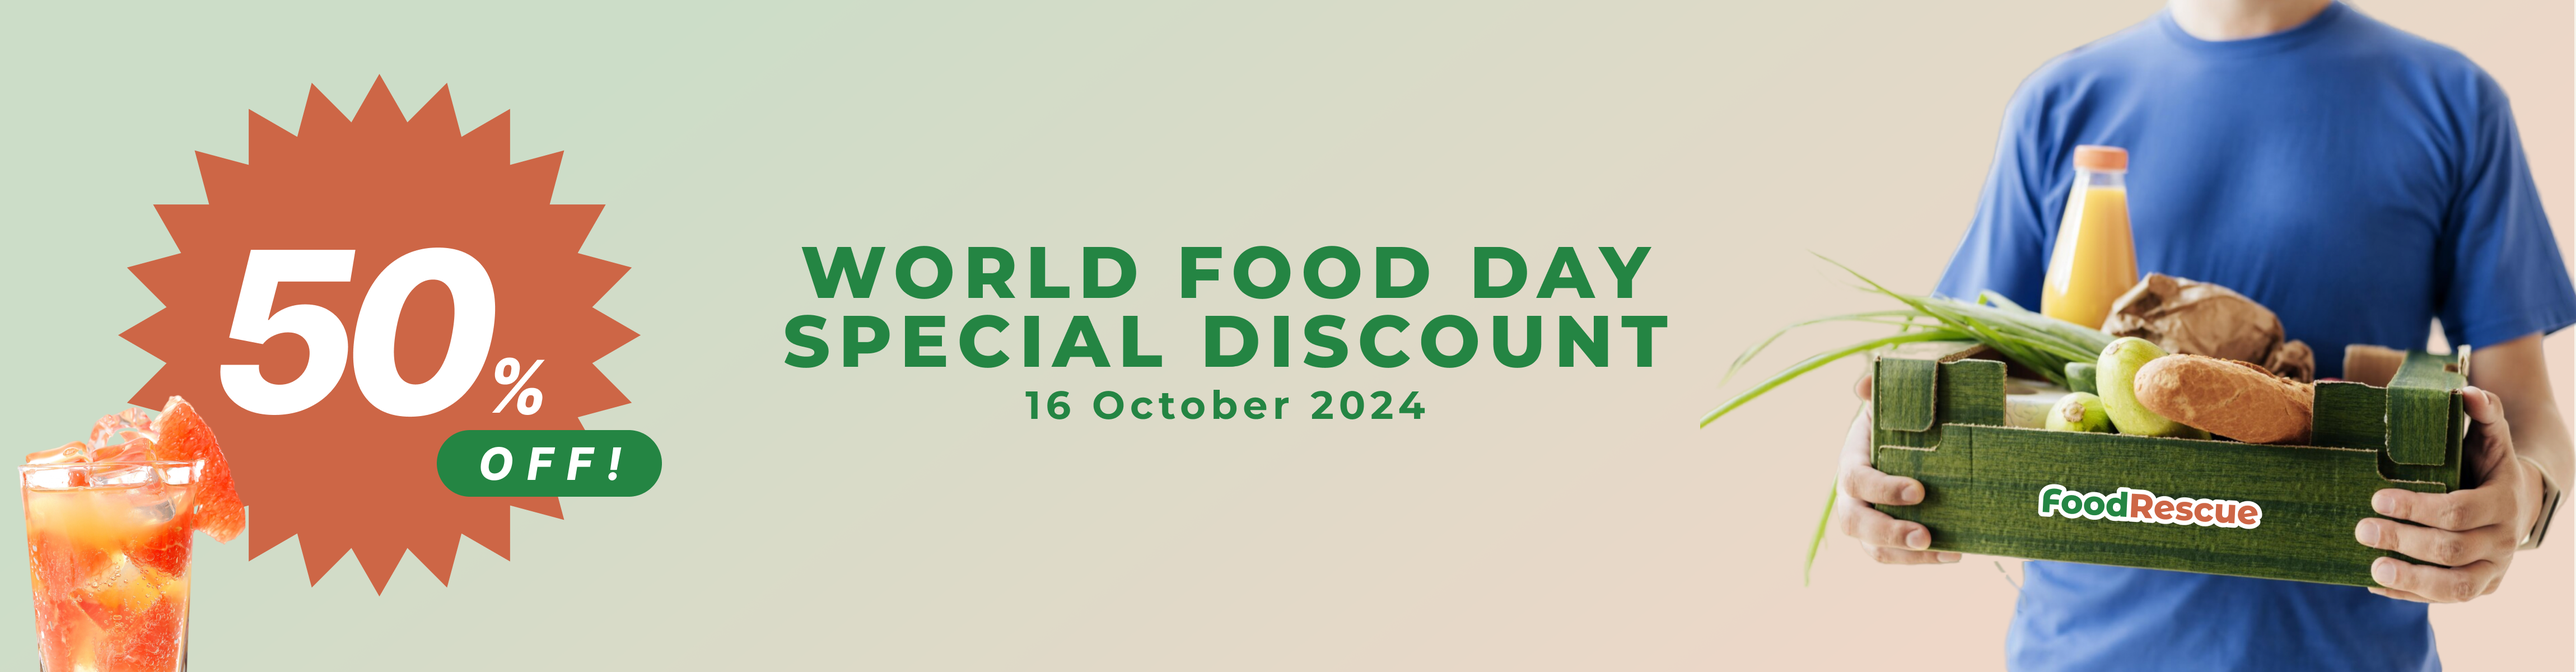
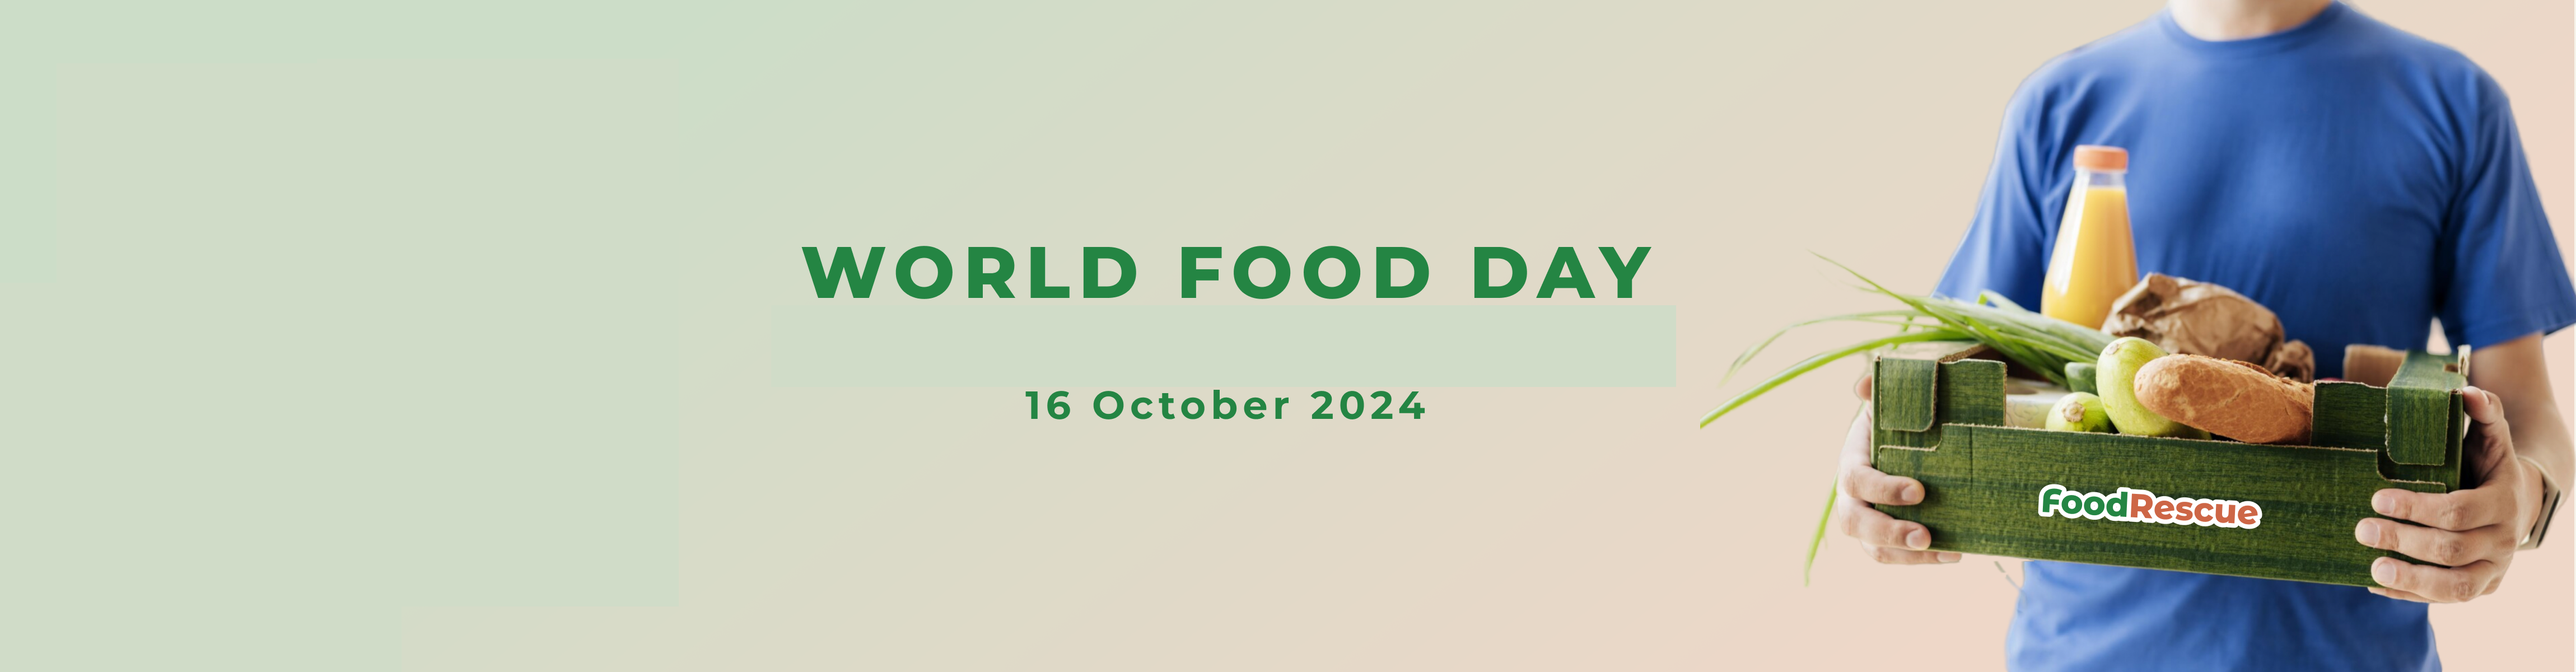
homepage update

Changed region(s): [[0.0, 0.1233, 0.2798, 1.0], [0.2798, 0.4625, 0.6528, 0.555]]

diff --git a/resources/views/customer/dashboard.blade.php b/resources/views/customer/dashboard.blade.php
@@ -10,11 +10,11 @@
                 <img src="{{ asset('images/banner-1.png') }}" class="d-block w-100" alt="Slide 1">
             </a>
         </div>
-        <div class="carousel-item">
+        {{-- <div class="carousel-item">
             <a href="{{ url('banner-2') }}">
                 <img src="{{ asset('images/banner-2.png') }}" class="d-block w-100" alt="Slide 2">
             </a>
-        </div>
+        </div> --}}
         <div class="carousel-item">
             <a href="{{ url('banner-3') }}">
                 <img src="{{ asset('images/banner-3.png') }}" class="d-block w-100" alt="Slide 3">
@@ -33,80 +33,14 @@
 
 <!-- Menu -->
 <div class="container" id="coffee">
-    <h2 class="promo-heading mt-4">Todays Promo</h2>
+    <h2 class="promo-heading mt-4"></h2>
     <div class="row" style="margin-top: 30px;">
         <div class="col-md-3 py-0 py-md-0">
             <div class="card border-0">
-                <img src="{{ asset('images/menu/vanila-latte.png') }}" alt="">
-                <div class="card-body">
-                    <h3 class="menu-coffee">Vanilla Latte</h3>
-                    <h5 class="menu-coffee">Rp 10.000 <span class="line-stike">Rp 13.000 </span></h5>
-
-                </div>
             </div>
         </div>
-        <h2 class="promo-heading mt-4">Featured Products</h2>
+        <h2 class="promo-heading mt-4"></h2>
         <div class="row" style="margin-top: 30px;">
-            <div class="col-md-3 py-0 py-md-0">
-                <div class="card border-0">
-                    <img src="{{ asset('images/menu/saltedcaramellatte.png') }}" alt="">
-                    <div class="card-body">
-                        <h3 class="menu-coffee">Salted Caramel Latte</h3>
-                        <h5 class="menu-coffee">Rp 19.000 <span></span></h5>
-                        <!-- <h6 class="menu-coffee">Stock : 16</h6> -->
-                    </div>
-                </div>
-            </div>
-            <div class="col-md-3 py-0 py-md-0">
-                <div class="card border-0">
-                    <img src="{{ asset('images/menu/aren-latte.png') }}" alt="">
-                    <div class="card-body">
-                        <h3 class="menu-coffee">Aren Latte</h3>
-                        <h5 class="menu-coffee">Rp 9.000 <span></span></h5>
-                        <!-- <h6 class="menu-coffee">Stock : 12</h6> -->
-                    </div>
-                </div>
-            </div>
-            <div class="col-md-3 py-0 py-md-0">
-                <div class="card border-0">
-                    <img src="{{ asset('images/menu/caramellatte.png') }}" alt="">
-                    <div class="card-body">
-                        <h3 class="menu-coffee">Caramell Latte</h3>
-                        <h5 class="menu-coffee">Rp 13.000 <span></span></h5>
-                        <!-- <h6 class="menu-coffee">Stock : 6</h6> -->
-                    </div>
-                </div>
-            </div>
-            <div class="col-md-3 py-0 py-md-0">
-                <div class="card border-0">
-                    <img src="{{ asset('images/menu/creamycoffee.png') }}" alt="">
-                    <div class="card-body">
-                        <h3 class="menu-coffee">Creamy Coffee</h3>
-                        <h5 class="menu-coffee">Rp 15.000 <span></span></h5>
-                        <!-- <h6 class="menu-coffee">Stock : 11</h6> -->
-                    </div>
-                </div>
-            </div>
-            <div class="col-md-3 py-0 py-md-0">
-                <div class="card border-0">
-                    <img src="{{ asset('images/menu/oceanblue.png') }}" alt="">
-                    <div class="card-body">
-                        <h3 class="menu-coffee">Ocean Blue</h3>
-                        <h5 class="menu-coffee">Rp 15.000 <span></span></h5>
-                        <!-- <h6 class="menu-coffee">Stock : 11</h6> -->
-                    </div>
-                </div>
-            </div>
-            <div class="col-md-3 py-0 py-md-0">
-                <div class="card border-0">
-                    <img src="{{ asset('images/menu/icecreamsandwich.png') }}" alt="">
-                    <div class="card-body">
-                        <h3 class="menu-coffee">Ice Cream Sandwich</h3>
-                        <h5 class="menu-coffee">Rp 15.000 <span></span></h5>
-                        <!-- <h6 class="menu-coffee">Stock : 2</h6> -->
-                    </div>
-                </div>
-            </div>
         </div>
     </div>
 </div>
